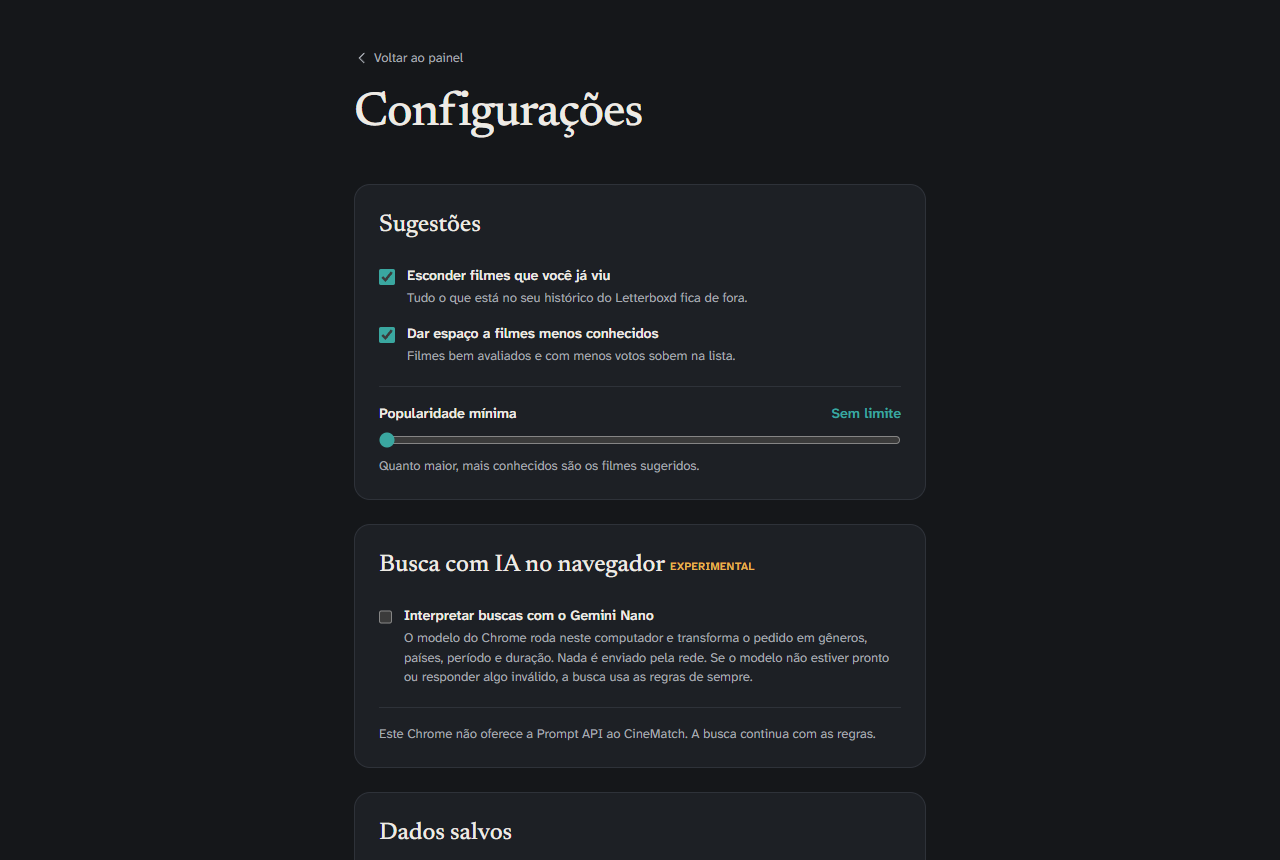
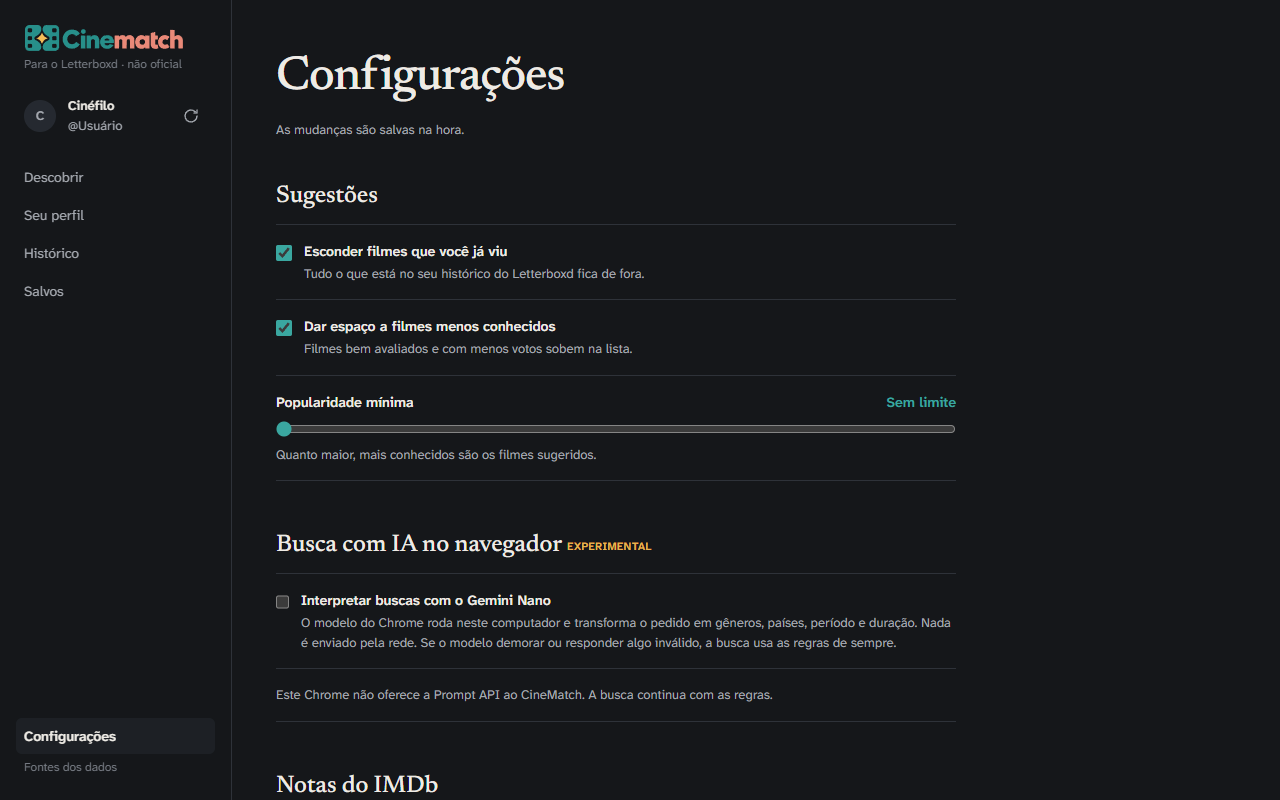
Refresh outdated docs and screenshots; show the daily pick's IMDb rating
Claude-Session: https://claude.ai/code/session_01BAbTEcgtFKuinqKWJBHMKj

diff --git a/src/application/recommendations.ts b/src/application/recommendations.ts
@@ -217,7 +217,7 @@ async function computeDailyPick(ctx: AppContext, options: { refresh?: boolean; u
     // oldest entry is the original daily selection; newer ones were refreshes.
     todayEntries.filter((entry) => !entry.data.kind).at(-1);
   if (!options.refresh && cached?.data.matchingVersion === DAILY_MATCHING_VERSION && cached.data.profileKey === key && !blocked.has(cached.data.film)) {
-    return { username, profileKey: key, data: cached.data };
+    return { username, profileKey: key, data: await withCurrentRating(ctx, cached.data) };
   }
 
   const excludedSlugs = history
@@ -231,6 +231,18 @@ async function computeDailyPick(ctx: AppContext, options: { refresh?: boolean; u
   const data: StoredDailyPick = { ...pick, profileKey: key, profileUsername: username, kind: 'daily' };
   await ctx.daily.add({ username, date: today, data });
   return { username, profileKey: key, data };
+}
+
+/**
+ * A pick chosen before IMDb's ratings finished downloading was stored without
+ * a rating, and the cards of the same film show one. Once the ratings exist,
+ * the stored pick takes the catalog's rating. The catalog loads only then.
+ */
+async function withCurrentRating(ctx: AppContext, data: StoredDailyPick): Promise<StoredDailyPick> {
+  if (data.film.imdbRating || (await ratingsMissing(ctx))) return data;
+  const film = (await ctx.catalog()).bySlug(data.film.catalogSlug);
+  if (!film?.imdbRating) return data;
+  return { ...data, film: { ...data.film, imdbRating: film.imdbRating, imdbVotes: film.imdbVotes } };
 }
 
 /**

diff --git a/src/ui/pages/dashboard/index.html b/src/ui/pages/dashboard/index.html
@@ -14,7 +14,7 @@
         <a id="homeLink" class="group self-start rounded-md" href="#" title="Voltar ao início" aria-label="CineMatch: voltar ao início">
           <img src="../../assets/cinematch-logo.svg" alt="" class="h-7 w-auto transition duration-150 group-hover:brightness-125 group-active:scale-[0.98] motion-reduce:transition-none">
         </a>
-        <span class="text-xs text-faint">Funciona com o Letterboxd</span>
+        <span class="text-xs text-faint">Para o Letterboxd · não oficial</span>
       </div>
 
       <div class="flex items-center gap-3 px-2">
@@ -280,7 +280,7 @@
 
           <section class="mt-12" aria-labelledby="privacyTitle">
             <h2 id="privacyTitle" class="font-serif text-2xl font-medium">Privacidade</h2>
-            <p class="mt-3 text-[13px] leading-relaxed text-muted">Seu perfil, notas e listas ficam neste navegador. A extensão só acessa o Letterboxd, para sincronizar, o IMDb, para as notas, e o TMDB, para os pôsteres. A busca com IA roda no próprio Chrome.</p>
+            <p class="mt-3 text-[13px] leading-relaxed text-muted">Seu perfil, notas e listas ficam neste navegador. A extensão só acessa o Letterboxd, na sincronização opcional, o IMDb, para as notas, e o TMDB, para os pôsteres. A busca com IA roda no próprio Chrome.</p>
           </section>
 
           <section id="fontes" class="mt-12 scroll-mt-8 text-[12px] leading-relaxed text-faint" aria-labelledby="sourcesTitle">

diff --git a/tests/application/recommendations-synthetic.test.ts b/tests/application/recommendations-synthetic.test.ts
@@ -209,3 +209,18 @@ test('synthetic: before IMDb ratings are downloaded, the popularity floor is ski
   assert.equal(rated.recommendations.length, 0);
   assert.ok(!rated.notice.includes(MISSING_RATINGS_NOTICE));
 });
+
+test('synthetic: a daily pick chosen before the ratings arrived shows the rating once they exist', async () => {
+  const unrated = createCatalog(catalog.films.map(withoutRatings));
+  const { ctx } = await context({ profile: tasteProfile, catalog: unrated });
+  ctx.ratings = { store: memoryRatingsStore(null), source: { download: async () => ({}) } };
+  const first = await getDailyPick(ctx);
+  assert.equal(first.data.film.imdbRating, 0);
+  // The ratings finished downloading; the catalog now carries them.
+  ctx.ratings.store = memoryRatingsStore({ fetchedAt: FIXED_NOW.toISOString(), ratings: {} });
+  ctx.catalog = async () => catalog;
+  const later = await getDailyPick(ctx);
+  assert.equal(later.data.film.letterboxdSlug, first.data.film.letterboxdSlug);
+  assert.equal(later.data.film.imdbRating, catalog.bySlug(first.data.film.catalogSlug)?.imdbRating);
+  assert.ok(later.data.film.imdbRating > 0);
+});

diff --git a/CHROMEWEBSTORE.md b/CHROMEWEBSTORE.md
@@ -1,6 +1,6 @@
 # Chrome Web Store — CineMatch
 
-Atualizado: 2026-10-19. Rascunho local; ainda não publicado na loja.
+Atualizado: 2026-10-20. Rascunho local; ainda não publicado na loja.
 
 ## Listagem
 
@@ -8,11 +8,11 @@ Nome: CineMatch: recomendações de filmes
 
 O nome não leva a marca Letterboxd: a loja trata isso como uso de marca de terceiros. O Letterboxd aparece só na descrição, para dizer com o que a extensão funciona, sempre como "não oficial".
 
-Descrição curta: Encontre filmes pelo seu gosto no Letterboxd, por clima ou por pedido, com sugestões diárias e uma lista de salvos.
+Descrição curta: Encontre filmes pelo seu histórico do Letterboxd, por clima ou por pedido, com sugestões diárias e uma lista de salvos.
 
 Descrição detalhada:
 
-O CineMatch ajuda a escolher o próximo filme com base no seu perfil do Letterboxd.
+O CineMatch ajuda a escolher o próximo filme com base no histórico que você exporta do Letterboxd. Extensão não oficial.
 
 Explore 15 climas, peça gêneros, exclusões, país de produção, período e duração, e confira como seu pedido foi entendido. Combine alternativas como “suspense ou ficção científica, sem terror, até 1h40”. Pedidos contraditórios mostram o que precisa ser ajustado. Seu gosto orienta as sugestões automaticamente.
 
@@ -39,8 +39,8 @@ pôsteres e as notas do IMDb aparecerem.
 |---|---|---|
 | Ícone 128 × 128 | public/icons/icon128.png | Pronto |
 | Bloco promocional 440 × 280 | docs/screenshots/loja-promo-440x280.png | Pronto |
-| Painel, resultados, perfil e opções | docs/screenshots/dashboard.png, resultados.png, perfil.png, options.png | Regenerar em 1280 × 800 (as atuais têm 1280 × 860) |
-| Popup | docs/screenshots/loja-popup.png | Gerar (popup enquadrado em 1280 × 800); popup.png, de 400 × 600, fica só no README |
+| Painel, resultados, perfil e opções | docs/screenshots/dashboard.png, resultados.png, perfil.png, options.png | Pronto (1280 × 800, 2026-10-20) |
+| Popup | docs/screenshots/loja-popup.png | Pronto (popup enquadrado em 1280 × 800); popup.png, de 400 × 600, fica só no README |
 
 ## Justificativas de permissões
 
@@ -66,7 +66,7 @@ Não há coleta de credenciais, pagamentos, saúde, localização, comunicaçõe
 
 ## Pendências antes de uma publicação
 
-URL pública da política de privacidade, nome do publicador, e-mail de contato, endereço de suporte, visibilidade e regiões: a definir pelo mantenedor. Validar as dimensões das novas screenshots e preencher as declarações da loja a partir do comportamento descrito acima. Estes campos não foram inventados e nenhum envio foi realizado.
+URL pública da política de privacidade, nome do publicador, e-mail de contato, endereço de suporte, visibilidade e regiões: a definir pelo mantenedor. Preencher as declarações da loja a partir do comportamento descrito acima. Estes campos não foram inventados e nenhum envio foi realizado.
 
 O pacote leva só dados que podem ser redistribuídos: catálogo do Wikidata (CC0), sinopses da Wikipédia (CC BY-SA 4.0, com crédito em Configurações → Fontes dos dados) e caminhos dos pôsteres do TMDB, com o aviso exigido pelo TMDB. As notas do IMDb (uso pessoal e não comercial) são baixadas pelo navegador de cada usuário. Detalhes em docs/data-sources.md. O código GPL não muda a licença dos dados.
 
@@ -74,6 +74,9 @@ O pacote leva só dados que podem ser redistribuídos: catálogo do Wikidata (CC
 
 | Versão | Data | Mudanças | Estado |
 |---|---|---|---|
+| 1.0.0, alterações locais | 2026-10-20 | Nome sem a marca Letterboxd; importar o CSV virou o caminho principal e a sincronização ficou opcional; pôsteres só do TMDB | Rascunho local |
+| 1.0.0, alterações locais | 2026-10-19 | Preparação para a loja: descrição do manifesto com até 132 caracteres, permissão `tabs` removida, botão do Letterboxd só com clique real, bloco promocional e capturas em 1280 × 800 | Rascunho local |
+| 1.0.0, alterações locais | 2026-10-18 | Catálogo trocado do IMDb para o Wikidata (notas do IMDb baixadas pelo navegador) e catálogo empacotado menor, para o worker acordar mais rápido | Rascunho local |
 | 1.0.0, alterações locais | 2026-10-14 | O botão do Letterboxd não troca mais o perfil ativo sem confirmação (com backup do anterior); fontes dos dados nas opções e no painel; "Não combina comigo" ensina o gosto; variedade por década; buscas mais rápidas; sincronização tolerante e dia no fuso do usuário | Rascunho local |
 | 1.0.0, alterações locais | 2026-10-12 | Alternativas de gêneros e países, negações locais, intervalos de duração e explicação de conflitos entre texto e filtros | Rascunho local |
 | 1.0.0, alterações locais | 2026-10-12 | Ampliação das evidências de Um único cenário e Cinema lento; revisão das lacunas de metadados e auditoria de cobertura por popularidade | Rascunho local |

diff --git a/docs/privacy.md b/docs/privacy.md
@@ -1,14 +1,14 @@
 # Privacidade do CineMatch
 
-Atualizado em 19 de outubro de 2026.
+Atualizado em 20 de outubro de 2026.
 
-O CineMatch guarda o perfil sincronizado do Letterboxd, preferências, filmes salvos, histórico de recomendações e feedback no armazenamento local da extensão, dentro do navegador do usuário. O feedback inclui o filme, o perfil ativo, a ação (Hoje não, Não combina comigo ou Já assisti) e o momento do registro.
+O CineMatch guarda o perfil do Letterboxd (importado do CSV ou sincronizado), preferências, filmes salvos, histórico de recomendações e feedback no armazenamento local da extensão, dentro do navegador do usuário. O feedback inclui o filme, o perfil ativo, a ação (Hoje não, Não combina comigo ou Já assisti) e o momento do registro.
 
 Esses dados não são enviados para um servidor do CineMatch. O caminho principal é importar os arquivos CSV que o próprio usuário exporta do Letterboxd. Se ele preferir a sincronização opcional, a extensão consulta páginas públicas do Letterboxd; quando há uma aba do Letterboxd aberta, ela pode usar a sessão já autenticada nessa aba para completar a consulta. Pôsteres são baixados só do domínio de imagens do TMDB. Na instalação e depois uma vez por mês, a extensão baixa o arquivo público de notas do IMDb; o pedido não leva dados do usuário, e as notas ficam guardadas no navegador.
 
 A avaliação opcional da curadoria guarda localmente o perfil ativo, a lista apresentada, o pedido, filtros, versão da curadoria e contagens do perfil e do catálogo, além das respostas e comentários de até 500 caracteres. Registros anteriores podem manter o modo de descoberta usado na época. Não há envio automático nem treinamento com essas respostas. **Seu perfil → Avaliações da curadoria** permite exportar um arquivo JSON ou apagar as avaliações do perfil ativo. O arquivo exclui o nome do perfil e o histórico de filmes e notas importados; inclui o pedido e os comentários escritos pelo usuário, que podem conter informações pessoais se ele as inserir.
 
-O usuário pode apagar o perfil sincronizado a qualquer momento em **Configurações → Apagar perfil salvo**. Pode remover filmes da coleção pelos botões Salvo e desfazer um feedback na indicação em que o registrou ou no painel **Seu perfil → Revisar feedback de sugestões**. Hoje não deixa de excluir o filme no dia seguinte, pela data do computador do usuário; os outros feedbacks continuam valendo até serem desfeitos. O feedback não publica atividades no Letterboxd nem altera as avaliações importadas ou sincronizadas.
+O usuário pode apagar o perfil salvo a qualquer momento em **Configurações → Apagar perfil salvo**. Pode remover filmes da coleção pelos botões Salvo e desfazer um feedback na indicação em que o registrou ou no painel **Seu perfil → Revisar feedback de sugestões**. Hoje não deixa de excluir o filme no dia seguinte, pela data do computador do usuário; os outros feedbacks continuam valendo até serem desfeitos. O feedback não publica atividades no Letterboxd nem altera as avaliações importadas ou sincronizadas.
 
 O recurso de consulta à watchlist foi removido. Cópias de consulta deixadas pela integração anterior são descartadas na limpeza de dados obsoletos e pelo botão de apagar perfil.
 

diff --git a/docs/performance.md b/docs/performance.md
@@ -1,5 +1,8 @@
 # Desempenho
 
+> Registro histórico: as rodadas de 12 a 15 de outubro usaram o catálogo anterior,
+> do IMDb. A rodada de 18 de outubro, no fim, mede o catálogo do Wikidata.
+
 Rodada de 12–13 de outubro de 2026, comparada ao código de `7964f25`.
 O objetivo foi reduzir a demora ao reativar a extensão e o trabalho repetido do
 motor, preservando os filmes indicados e as regras de exclusão.
@@ -213,3 +216,20 @@ palavra, por aproximação, para cada termo. Agora o campo é dividido uma vez e
 cada palavra é procurada no conjunto de palavras do vocabulário que o termo já
 casa. O resultado é o mesmo; o motor passou de cerca de 345 ms para 100 ms nessa
 busca, e o painel com o worker quente responde em cerca de 190 ms.
+
+## Rodada de 18 de outubro de 2026: catálogo do Wikidata
+
+Com o catálogo do Wikidata, o worker frio levava cerca de 1,9 s para responder
+à primeira mensagem, porque relia e descomprimia o catálogo inteiro (45,8 MB
+descompactado). Quase metade disso era `keywordEvidence`, que repetia o texto
+de cada palavra-chave só para guardar a origem dela.
+
+- No pacote, a origem virou uma string de códigos paralela a `keywords`
+  (`keywordSources`). O JSON caiu de 45,8 para 24,1 MB, o gzip de 8,2 para
+  6,6 MB e o `JSON.parse` de cerca de 1.340 ms para 300 ms.
+- As estatísticas do perfil passaram a ficar em `chrome.storage.session`, e a
+  interface não espera mais o catálogo só para mostrá-las.
+
+Continuam em aberto: o primeiro clima com o worker frio (cerca de 1,35 s), a
+primeira busca por texto, que monta o índice de palavras, e manter o worker
+vivo enquanto uma página da extensão está aberta.

diff --git a/docs/curation-improvements.md b/docs/curation-improvements.md
@@ -1,5 +1,8 @@
 # Primeira rodada de melhorias de curadoria
 
+> Registro histórico: esta rodada usou o catálogo anterior, do IMDb. Desde 18 de
+> outubro de 2026 o catálogo vem do Wikidata, e os números podem ser diferentes.
+
 Implementação iniciada em 6 de outubro de 2026 e preparada para revisão em pull request. As alterações que já estavam no projeto foram preservadas, inclusive a expansão do catálogo e seu enriquecimento. O dataset de filmes gerado localmente continua fora do versionamento.
 
 A rodada seguinte, de 7 de outubro, está documentada em

diff --git a/docs/architecture.md b/docs/architecture.md
@@ -128,8 +128,8 @@ Adaptadores das portas:
 
 ## UI (`src/ui`)
 
-- `shared/`: o que as telas reutilizam: escape de HTML, pôster (TMDB com
-  fallback para o Letterboxd), meta e link do filme, leitura dos filtros,
+- `shared/`: o que as telas reutilizam: escape de HTML, pôster (só do
+  TMDB), meta e link do filme, leitura dos filtros,
   exportação em texto e usuário a partir da URL do Letterboxd.
 - `pages/popup`, `pages/dashboard` (um módulo por aba, inclusive Configurações)
   e `content/`: controladores que renderizam e chamam `messaging/client`.

diff --git a/docs/curation-coverage.md b/docs/curation-coverage.md
@@ -1,5 +1,8 @@
 # Ampliação de cobertura e revisão de metadados
 
+> Registro histórico: esta rodada usou o catálogo anterior, do IMDb. Desde 18 de
+> outubro de 2026 o catálogo vem do Wikidata, e os números podem ser diferentes.
+
 Rodada de 12 de outubro de 2026, após a primeira amostra qualitativa com o
 perfil do mantenedor. A recepção positiva daquela amostra não foi convertida
 em uma taxa de precisão. Esta etapa amplia a evidência disponível para os dois

diff --git a/docs/curation-validation.md b/docs/curation-validation.md
@@ -1,5 +1,8 @@
 # Avaliação e revisão da curadoria
 
+> Registro histórico: esta rodada usou o catálogo anterior, do IMDb. Desde 18 de
+> outubro de 2026 o catálogo vem do Wikidata, e os números podem ser diferentes.
+
 A ampliação posterior dos dois climas com menor cobertura e a nova consulta
 dos metadados estão documentadas em
 [Ampliação de cobertura e revisão de metadados](curation-coverage.md), de 12
